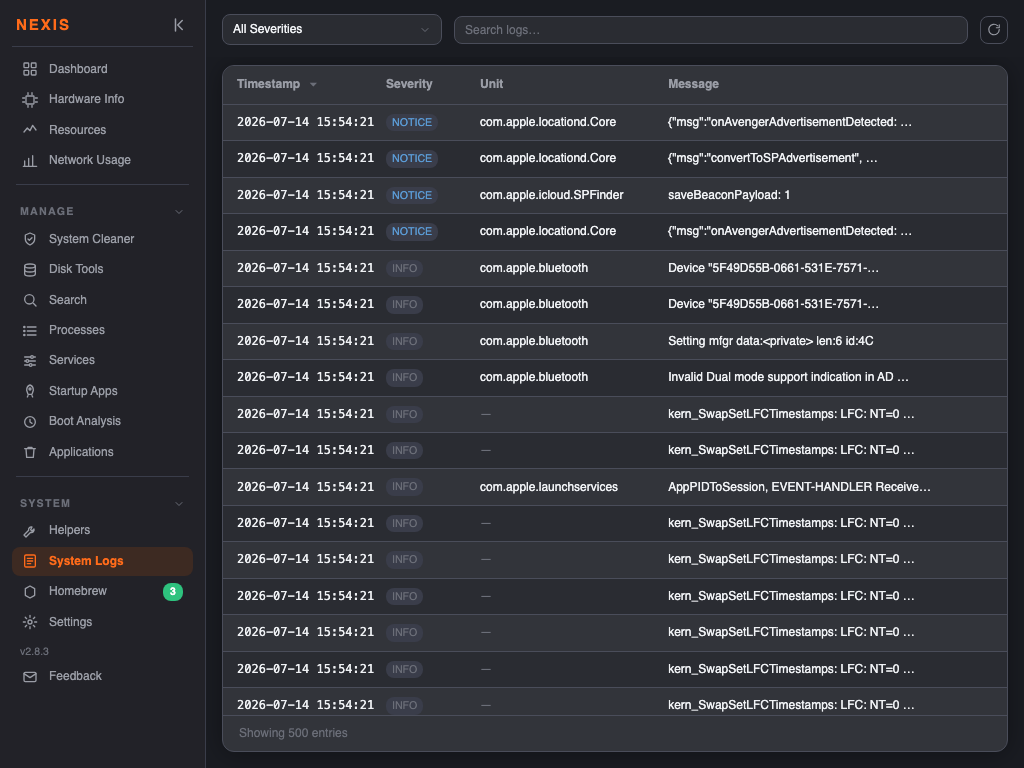
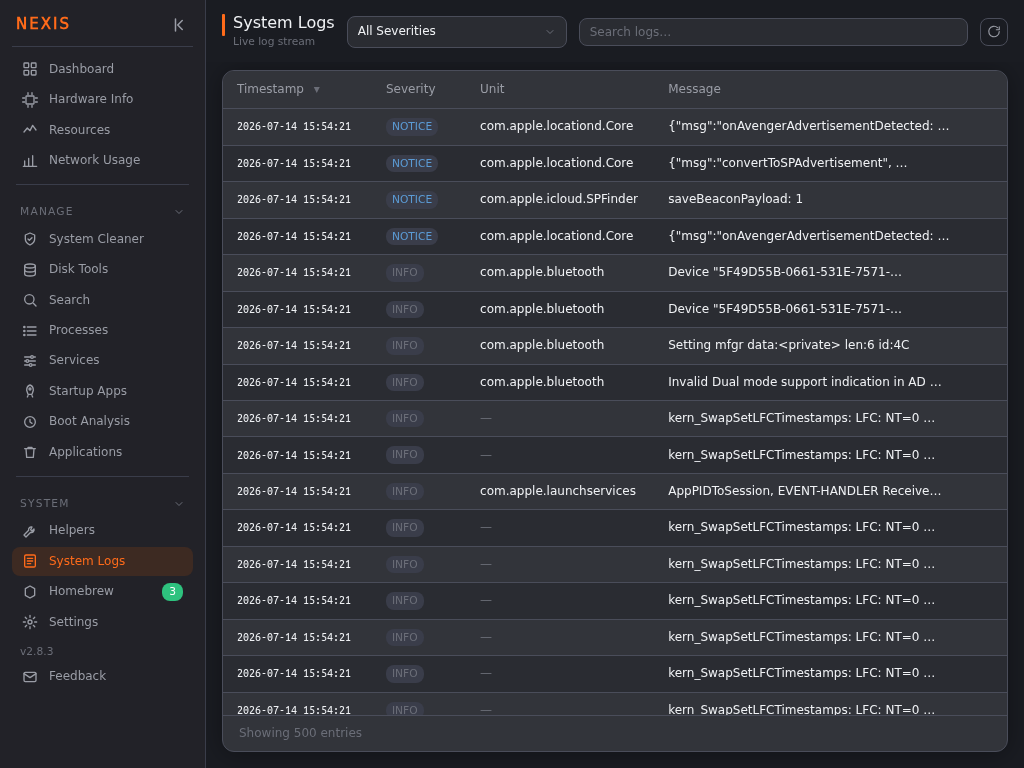
docs(design): add System Logs page title mockup + render (SSO-14314)
Design-capture-only: adds DS §3 header anatomy (accent bar + "System
Logs" title + "Live log stream" source line) to the mockup HTML,
re-renders dark/light PNGs, and documents the change in notes as
pending fresh maintainer approval. No implementation code touched.

diff --git a/docs/design/ux-modernization/mockups/pages/system_logs.html b/docs/design/ux-modernization/mockups/pages/system_logs.html
@@ -36,8 +36,12 @@
   </div>
 </aside>
   <main class="content">
-    <!-- change 3: DS §3 toolbar chrome (no page title in current state) -->
+    <!-- change 3: DS §3 header anatomy (accent bar + title + muted source line); toolbar keeps the captured All Severities select, Search field, and refresh icon-button -->
     <div class="toolbar">
+      <div class="page-header">
+        <div class="accent-bar" style="background:var(--accentColor)"></div>
+        <div><div class="page-title">System Logs</div><div class="page-sub">Live log stream</div></div>
+      </div>
       <div class="select" style="width:220px">All Severities <div class="toolbar__spacer"></div><svg viewBox="0 0 24 24" fill="none" stroke="currentColor" stroke-width="2" stroke-linecap="round" stroke-linejoin="round"><path d="M6 9l6 6 6-6"/></svg></div>
       <input class="field field--grow" placeholder="Search logs…">
       <button class="icon-btn"><svg viewBox="0 0 24 24" fill="none" stroke="currentColor" stroke-width="2" stroke-linecap="round" stroke-linejoin="round"><path d="M21 12a9 9 0 1 1-3-6.7M21 4v5h-5"/></svg></button>

diff --git a/docs/design/ux-modernization/mockups/notes/system_logs.md b/docs/design/ux-modernization/mockups/notes/system_logs.md
@@ -1,6 +1,6 @@
 # System Logs — prototype rationale
 
-**Status:** Approved by maintainer (2026-07-15).
+**Status:** Changes 1–6 approved by maintainer (2026-07-15). Change 7 (below) is net-new scope added under SSO-14314 and is pending a fresh maintainer approval — not yet accepted.
 
 **Before:** current-state/macos/dark/system_logs.png
 **After:** renders/system_logs_{dark,light}.png
@@ -12,5 +12,6 @@
 4. Flat rows with the DS §7 scanning kit: frozen sticky header, `@borderColor` gridlines, zebra striping realised through the DS §1 flat-row surface (`@cardBg`), and an `@accentBgTint` hover-highlight. Source: DS §7 (`style.qss:328-350`); [NNG-TABLES].
 5. Severity rendered as status pills on the neutral `@chartGridColor` track: NOTICE → `info` (`@infoColor`), INFO → `dimmed` (`@tertiaryText`). Those are the only two severities present in the capture; the same `[status]` mechanism carries `warning`/`error` (`@warningColor`/`@destructiveColor`) when present. Source: DS §5 (`style.qss:2421-2435`, pill `809-815`).
 6. Empty Unit cells render an em-dash placeholder (before: blank cells). Source: [NNG-TABLES].
+7. **(SSO-14314, pending approval)** Added the DS §3 header-anatomy block that item 3 above intentionally omitted: a 3px accent bar (`@accentColor`, no domain-specific metric color applies to this page) + "System Logs" title + muted "Live log stream" source line, structurally identical to the `.page-header` block on Processes/Services. This is net-new scope, not a correction of item 3 — the no-title decision was correct for the SSO-13734 capture scope; a title was never in that capture to begin with. Source: DS §3 (`metric_tile_base.cpp:255-307`); DS §4 typography (`style.qss:772-815`). Evidence: renders/system_logs_{dark,light}.png.
 
-**Explicitly unchanged:** sidebar; the All-Severities / Search / Refresh control set; the column set (Timestamp, Severity, Unit, Message); the "Showing 500 entries" footer; the log values are copied verbatim from the capture (truncations preserved), nothing invented.
+**Explicitly unchanged:** sidebar; the All-Severities / Search / Refresh control set; the column set (Timestamp, Severity, Unit, Message); the "Showing 500 entries" footer; the log values are copied verbatim from the capture (truncations preserved), nothing invented. Change 7 adds only the header block above the existing toolbar — the log table, columns, severity pill logic, and filter/search/refresh controls and their layout are untouched.
